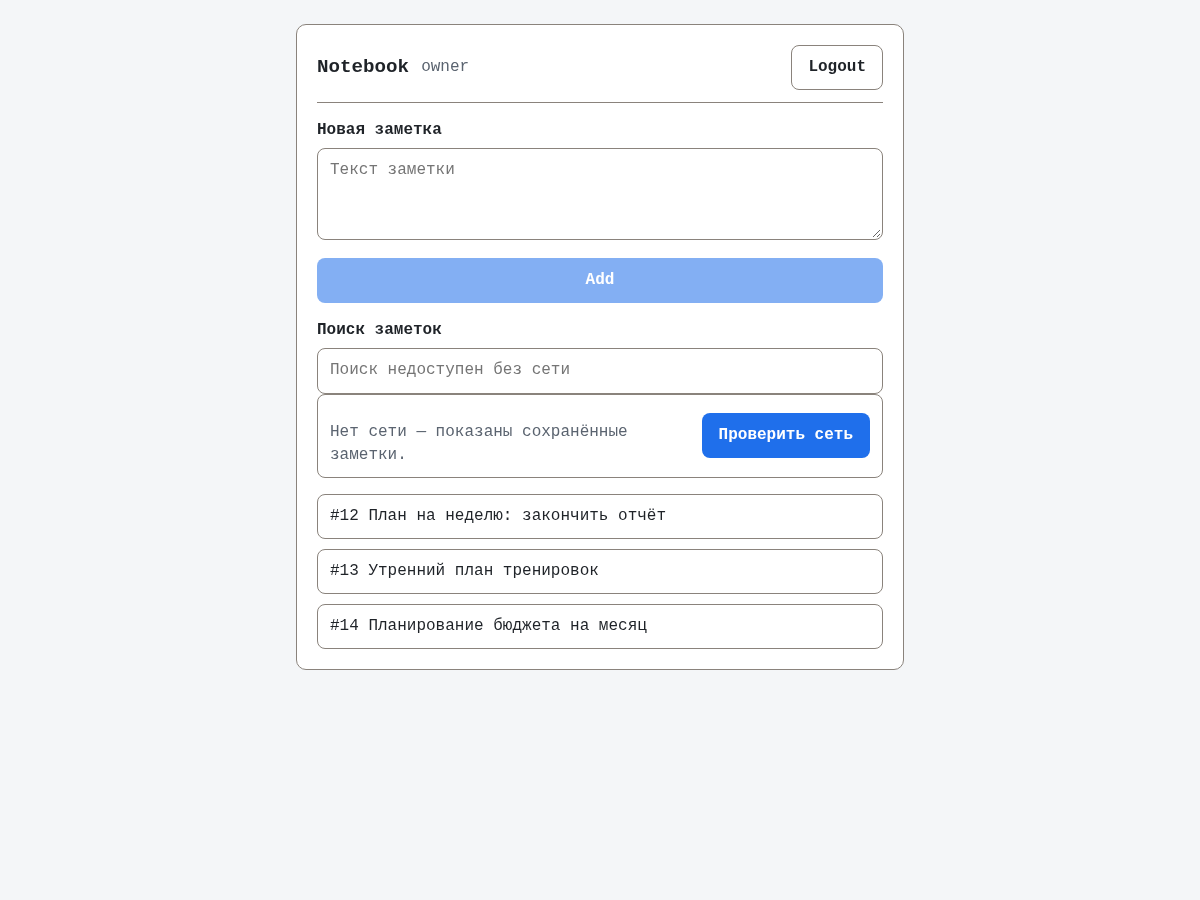
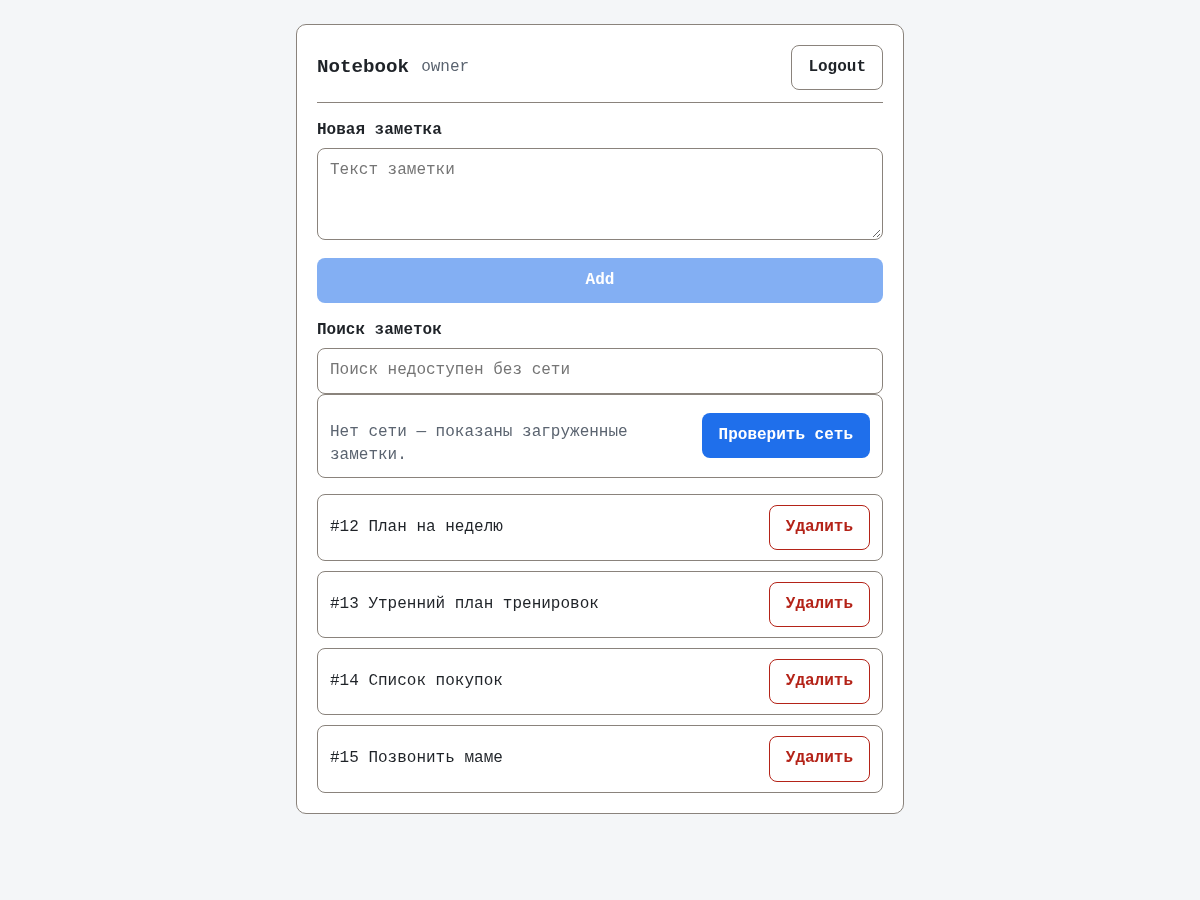
feat(f-v4-note-search): s03 unit UX review accepted (0 blockers/majors); delete + states fixes

diff --git a/doc/идеи/f-v4-note-search/units/note-search/proto.html b/doc/идеи/f-v4-note-search/units/note-search/proto.html
@@ -17,7 +17,7 @@
 
       <p class="error" data-testid="notes-error" id="notes-error"
          role="alert" aria-live="assertive" hidden>
-        Не удалось загрузить заметки. Повторите позже.
+        Не удалось загрузить заметки. Попробуйте ещё раз.
       </p>
       <button data-testid="notes-retry" id="notes-retry" type="button" hidden>
         Повторить
@@ -45,12 +45,12 @@
 
       <div class="note-item" data-testid="notes-offline" id="notes-offline"
            role="status" hidden>
-        <p class="note-text muted">Нет сети — показаны сохранённые заметки.</p>
+        <p class="note-text muted">Нет сети — показаны загруженные заметки.</p>
         <button data-testid="notes-offline-check" id="notes-offline-check"
                 type="button" aria-label="Проверить сеть">Проверить&nbsp;сеть</button>
       </div>
 
-      <p class="muted" data-testid="notes-search-count" id="notes-search-count" aria-live="polite" hidden>Найдено 3</p>
+      <p class="muted" data-testid="notes-search-count" id="notes-search-count" aria-live="polite" hidden>Найдено 2</p>
 
       <p class="muted" data-testid="notes-loading" id="notes-loading"
          role="status" aria-live="polite" hidden>Загрузка...</p>
@@ -59,18 +59,33 @@
       </p>
       <p class="muted" data-testid="notes-search-empty" id="notes-search-empty"
          role="status" aria-live="polite" hidden>
-        Ничего не найдено.
+        Ничего не найдено. Сократите запрос или очистите поиск.
       </p>
 
       <ul class="notes-list" data-testid="notes-list" id="notes-list" role="list">
-        <li class="note-item" data-testid="note-item" role="listitem">
-          <span class="note-text">#12 План на неделю: закончить отчёт</span>
+        <li class="note-item" data-testid="note-item" role="listitem"
+            data-note-id="12" data-search-match="1">
+          <span class="note-text">#12 План на неделю</span>
+          <button class="delete-note" data-testid="delete-note" type="button"
+                  aria-label="Удалить заметку #12">Удалить</button>
         </li>
-        <li class="note-item" data-testid="note-item" role="listitem">
+        <li class="note-item" data-testid="note-item" role="listitem"
+            data-note-id="13" data-search-match="1">
           <span class="note-text">#13 Утренний план тренировок</span>
+          <button class="delete-note" data-testid="delete-note" type="button"
+                  aria-label="Удалить заметку #13">Удалить</button>
         </li>
-        <li class="note-item" data-testid="note-item" role="listitem">
-          <span class="note-text">#14 Планирование бюджета на месяц</span>
+        <li class="note-item" data-testid="note-item" role="listitem"
+            data-note-id="14" data-search-match="0">
+          <span class="note-text">#14 Список покупок</span>
+          <button class="delete-note" data-testid="delete-note" type="button"
+                  aria-label="Удалить заметку #14">Удалить</button>
+        </li>
+        <li class="note-item" data-testid="note-item" role="listitem"
+            data-note-id="15" data-search-match="0">
+          <span class="note-text">#15 Позвонить маме</span>
+          <button class="delete-note" data-testid="delete-note" type="button"
+                  aria-label="Удалить заметку #15">Удалить</button>
         </li>
       </ul>
     </div>
@@ -120,8 +135,10 @@
       var showsList = state === "idle" || state === "results" || state === "offline";
       var searchDisabled = state === "loading" || state === "error" || state === "offline";
 
+      var query = state === "results" ? "план" : state === "no-results" ? "отпуск" : "";
+
       if (search) {
-        search.value = hasQuery ? "план" : "";
+        search.value = query;
         search.disabled = searchDisabled;
         search.placeholder =
           state === "offline" ? "Поиск недоступен без сети" : "Поиск по тексту...";
@@ -144,14 +161,26 @@
       if (count) {
         count.hidden = !hasQuery;
         if (hasQuery) {
-          count.textContent = "Найдено " + (state === "no-results" ? "0" : "3");
+          count.textContent = "Найдено " + (state === "no-results" ? "0" : "2");
         }
       }
 
       if (list) {
         list.hidden = !showsList;
+        var rows = list.querySelectorAll(".note-item");
+        for (var i = 0; i < rows.length; i++) {
+          rows[i].hidden =
+            state === "results" && rows[i].getAttribute("data-search-match") !== "1";
+        }
         if (state === "loading") list.setAttribute("aria-busy", "true");
         else list.removeAttribute("aria-busy");
+      }
+
+      var offlineCheck = byTestId("notes-offline-check");
+      if (offlineCheck) {
+        offlineCheck.addEventListener("click", function () {
+          window.location.reload();
+        });
       }
 
       setHidden("notes-loading", state !== "loading");

diff --git a/doc/идеи/f-v4-note-search/units/note-search/state-matrix.md b/doc/идеи/f-v4-note-search/units/note-search/state-matrix.md
@@ -4,22 +4,24 @@ Screen: `note-search` · Unit: `note-search` · Platform: web
 Notebook DS 1.0.0 (`web/app.css`, `design/tokens.json`, `design/registry.json`)
 Proto: `proto.html?state=<state>` — one state per render. `normal` is an alias of `idle`.
 
+Dataset: 4 loaded notes. Query `план` matches exactly 2 (`#12 План на неделю`, `#13 Утренний план тренировок`); `#14 Список покупок` and `#15 Позвонить маме` do not match. `no-results` uses the visibly different query `отпуск` (0 matches).
+
 The note form (`.note-form` with a visible `<label for="note-text">Новая заметка</label>`, `textarea`, and `Add`) is visible in **all** states, above the search field, matching `web/index.html`. `Add` is natively disabled with `aria-disabled="true"` while the textarea is empty and in `loading`/`error`/`offline`. Count (`Найдено N`, `aria-live="polite"`) is visible only in `results` and `no-results`.
 
-| State | What the user sees | Primary action | A11y notes |
+| State | What the user sees | Primary action | A11y / behavior notes |
 |---|---|---|---|
-| `normal` / `idle` | Note form visible; search field with label «Поиск заметок», empty query, placeholder «Поиск по тексту...»; Очистить hidden; count hidden; 3 saved notes in `.notes-list`. | Type a query or add a note. | Search field is a labelled `input[type=search]` inside `role="search"`; list is `role="list"` with `role="listitem"` rows; Очистить is not tabbable while hidden. |
-| `results` | Note form visible; query «план»; Очистить («Очистить», aria-label «Очистить поиск») visible; count «Найдено 3»; 3 matching notes filtered client-side. | Clear the query with Очистить, edit it to refine, or add a note. | Client-side filter over the loaded list (no per-keystroke request); count is visible text; Очистить has an accessible name. |
-| `no-results` | Note form visible; query «план»; Очистить visible; count «Найдено 0»; `.notes-list` hidden; message «Ничего не найдено.». | Clear the query or edit it to broaden the match. | `notes-search-empty` is `role="status" aria-live="polite"`; search input stays enabled and focused. |
+| `normal` / `idle` | Note form visible; search field with label «Поиск заметок», empty query, placeholder «Поиск по тексту...»; Очистить hidden; count hidden; all 4 loaded notes in `.notes-list`, each with a `.delete-note` «Удалить» button. | Type a query, add a note, or delete a note. | Search field is a labelled `input[type=search]` inside `role="search"`; list is `role="list"` with `role="listitem"` rows; each Удалить has `aria-label="Удалить заметку #<id>"`; Очистить is not tabbable while hidden. |
+| `results` | Note form visible; query «план»; Очистить («Очистить», aria-label «Очистить поиск») visible; count «Найдено 2»; exactly 2 matching rows with Удалить; the 2 non-matching rows are removed from the visible list. | Удалить a matching note, clear the query, or refine it. | Client-side filter over the loaded list (no per-keystroke request); count is visible text; Удалить is a real DS `.delete-note` danger button. **Удалить action:** removes that note, re-applies the active query, and updates the count; deleting the last match shows `no-results`. |
+| `no-results` | Note form visible; query «отпуск»; Очистить visible; count «Найдено 0»; `.notes-list` hidden; message «Ничего не найдено. Сократите запрос или очистите поиск.». | Clear the query or edit it to broaden the match. | `notes-search-empty` is `role="status" aria-live="polite"`; search input stays enabled and focused; query text is visibly different from `results`. |
 | `empty` | Note form visible; empty query; Очистить hidden; count hidden; list hidden; message «Пока нет заметок. Добавьте первую выше.». | Add the first note via the form. | `notes-empty` is muted text (not an alert); no phantom `note-item` rows are rendered. |
 | `loading` | Note form visible; muted message «Загрузка...» with `role="status" aria-live="polite"`; search disabled with `aria-disabled="true"` and `aria-describedby="notes-loading"`; count and list hidden; list carries `aria-busy="true"`. | Wait for the notes request to complete. | Disabled search removes interaction; the loading status is announced politely; list is marked busy. |
-| `error` | Note form visible; `.error` alert «Не удалось загрузить заметки. Повторите позже.» (`role="alert"`) and button «Повторить»; search disabled with `aria-disabled="true"` and `aria-describedby="notes-error"`; count and list hidden. | Press «Повторить» to retry the load. | `role="alert" aria-live="assertive"` announces the failure; retry is the next focusable action; disabled search points at the error text. |
-| `offline` | Note form visible; banner composed from DS `.note-item` `role="status"` with `.note-text.muted` text «Нет сети — показаны сохранённые заметки.» and a single-line `44px` button «Проверить сеть»; search disabled with placeholder «Поиск недоступен без сети», `aria-disabled="true"`, `aria-describedby="notes-offline"`; count hidden; 3 saved notes still listed. | Press «Проверить сеть» to re-check connectivity. | Banner uses DS `note-item` border and `muted` text (no custom colors); `.note-text` lets the paragraph flex, and a non-breaking space (plus `aria-label="Проверить сеть"`) keeps the button at its one-line 45px height without local CSS; search disabled because search is unavailable; saved notes remain readable. |
+| `error` | Note form visible; `.error` alert «Не удалось загрузить заметки. Попробуйте ещё раз.» (`role="alert"`) and button «Повторить»; search disabled with `aria-disabled="true"` and `aria-describedby="notes-error"`; count and list hidden. | Press «Повторить» to retry the load. | `role="alert" aria-live="assertive"` announces the failure; retry is the next focusable action; error copy matches the retry affordance. |
+| `offline` | Note form visible; banner composed from DS `.note-item` `role="status"` with `.note-text.muted` text «Нет сети — показаны загруженные заметки.» and a single-line `45px` button «Проверить сеть»; search disabled with placeholder «Поиск недоступен без сети», `aria-disabled="true"`, `aria-describedby="notes-offline"`; count hidden; all 4 loaded notes with Удалить visible. | Press «Проверить сеть» to re-check connectivity, or delete a loaded note. | **«Проверить сеть» behavior:** re-check `navigator.onLine` and reload the loaded notes; the prototype reloads the page (`location.reload()`). Banner uses DS `note-item` border and `muted` text (no custom colors); `.note-text` lets the paragraph flex, and a non-breaking space (plus `aria-label="Проверить сеть"`) keeps the button on one line without local CSS; saved loaded notes remain readable. |
 
 ## Coverage notes
 
 - 7 renderable states (`idle`, `results`, `no-results`, `empty`, `loading`, `error`, `offline`) plus the `normal` alias of `idle`.
 - Search contract: owner-scoped client-side filter over `{id, text}` notes; `q` capped at 512 bytes upstream; no per-keystroke request.
-- UI-review fixes applied: local `<style>` removed (no local CSS, no testid-based styling); count uses `.muted` with `aria-live="polite"`; offline banner is a DS composition (`.note-item` + `.note-text.muted` + `button`) with the button kept on one line; Clear text is «Очистить»; loading/empty/search-empty use `.muted`; count only in `results`/`no-results`; loading has `role="status"`; list sets `aria-busy` while loading; the note form has a visible label and disables `Add` while empty or in `loading`/`error`/`offline`.
-- DS drift: `n-count` `[data-testid=notes-search-count]` remains a `path6_required` gap (no dedicated registry component; styled only by `.muted`). `n-note-form` is a composition of `primitives/textarea` + `primitives/button` with no `registry_id` (the registry has no standalone form component; `web/app.css` defines `.note-form`). Retry and offline-check buttons reuse `primitives/button`.
-- No Kubiki, no `frontend/src/ui/kit`, no v6 imports; only Notebook DS classes from `web/app.css`.
+- UX fixes applied: 4-note dataset with 2 `план` matches; `results` count 2; `no-results` uses `отпуск`; offline copy says «загруженные заметки»; error copy aligned with retry; no-results message suggests shortening/clearing; real note rows include the DS `.delete-note` danger button.
+- DS drift: `n-count` `[data-testid=notes-search-count]` remains a `path6_required` gap (no dedicated registry component; styled only by `.muted`). `n-delete` `.delete-note` is also `path6_required`: the danger variant exists in `web/app.css` but is absent from `design/registry.json` (real DS registry omission). `n-note-form` is a composition of `primitives/textarea` + `primitives/button` with no `registry_id`. Retry and offline-check buttons reuse `primitives/button`.
+- No Kubiki, no `frontend/src/ui/kit`, no v6 imports; only Notebook DS classes from `web/app.css`; no local CSS.
